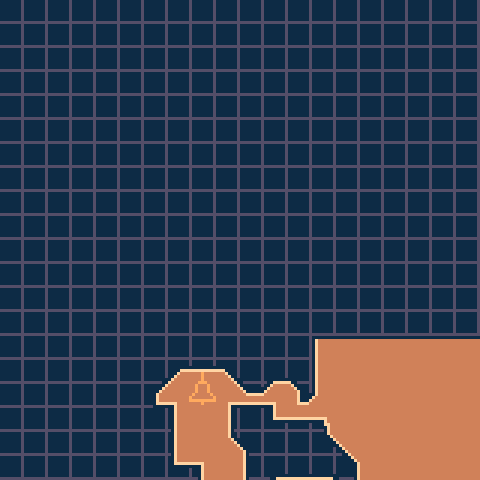
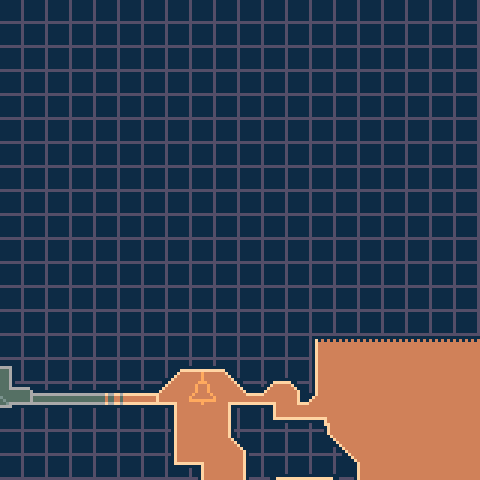
Added Old Arcadia area to map
- Updated map with Old Arcadia
- Added Save Points for Old Arcadia

(New markers for whole map coming)

diff --git a/js/markers.js b/js/markers.js
@@ -19,7 +19,7 @@ var zoomMod = 30;
 var echoTextPos = [2450, 1000];
 var echoBounds = [LatLng(echoTextPos[0] - 150, echoTextPos[1]), LatLng(echoTextPos[0] + 150, echoTextPos[1] + 900)];
 
-var sonnetTextPos = [300, -5350];
+var sonnetTextPos = [3100, 1000];
 var sonnetBounds = [LatLng(sonnetTextPos[0] - 450, sonnetTextPos[1]), LatLng(sonnetTextPos[0] + 450, sonnetTextPos[1] + 1200)];
 
 var reaperTextPos = [2100, 1000];
@@ -184,6 +184,8 @@ var savePinWD2 = CreateMarker(-3410, 4155, saveIcon, "Save Station", false); //W
 var savePinFR1 = CreateMarker(-3675, -3835, saveIcon, "Save Station", false); //FR - Under Rusty
 var savePinFR2 = CreateMarker(-4135, -195, saveIcon, "Save Station", false); //FR - Before Archives Final Bosses
 
+var savePinOA1 = CreateMarker(1085, -5420, saveIcon, "Save Station", false); //FR - Before Archives Final Bosses
+var savePinOA2 = CreateMarker(530, -5620, saveIcon, "Save Station", false); //FR - Before Archives Final Bosses
 
 var trainIcon = new pinIcon({ iconUrl: 'images/markers/world/trainPin.png' });
 
@@ -218,7 +220,7 @@ var perchPinBF = CreateMarker(2510, 5515, perchIcon, "Perch", false);
 
 var pinList =
     [
-        savePinAW1, savePinAW2, savePinAW3, savePinCC1, savePinCC2, savePinCC3, savePinPE, savePinSW1, savePinSW2, savePinFF1, savePinFF2, savePinFF3, savePinBF, savePinLB1, savePinLB2, savePinIB, savePinWD1, savePinWD2, savePinFR1, savePinFR2,
+        savePinAW1, savePinAW2, savePinAW3, savePinCC1, savePinCC2, savePinCC3, savePinPE, savePinSW1, savePinSW2, savePinFF1, savePinFF2, savePinFF3, savePinBF, savePinLB1, savePinLB2, savePinIB, savePinWD1, savePinWD2, savePinFR1, savePinFR2, savePinOA1, savePinOA2,
         trainPinAW, trainPinFR, trainPinLB, trainPinWD, trainPinFF, trainPinPE, trainPinCC, trainPinSW,
         perchPinCC1, perchPinCC2, perchPinAW, perchPinLB1, perchPinLB2, perchPinSW, perchPinFR1, perchPinFR2, perchPinWD1, perchPinWD2, perchPinPE, perchPinFF1, perchPinFF2, perchPinBF
     ];
